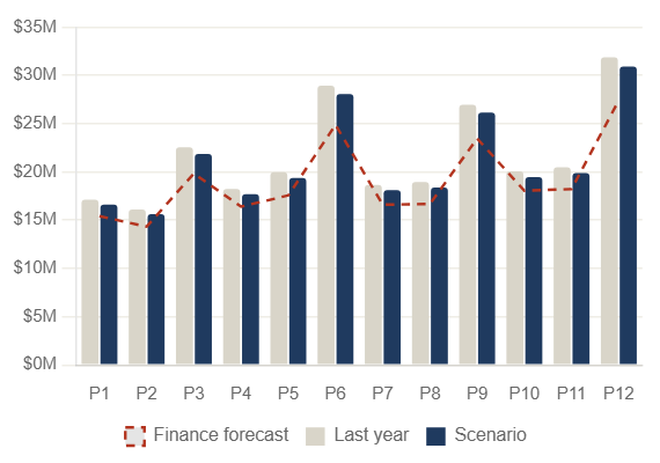
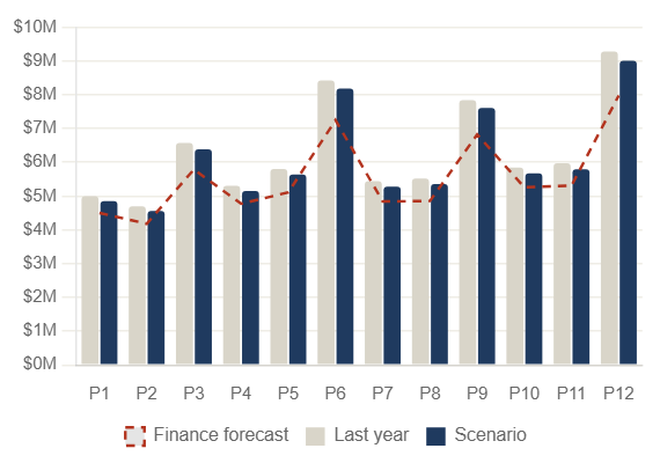
Planning scenarios: move synthetic anchors further from actuals
AOV ~$300, sessions ~9.5M, paid-search spend $42M, conversion ~2.6%,
sales ~$74M; CPCs and click-to-session rates rebalanced so the
per-channel curves stay plausible. Homepage thumbnail regenerated.

diff --git a/planning-scenarios.html b/planning-scenarios.html
@@ -141,7 +141,7 @@ table.m td.n{text-align:right;font-variant-numeric:tabular-nums;white-space:nowr
     <div class="grp">Paid search spend, $M</div>
     <div id="chLevers"></div>
     <div class="grp">Upper funnel, $M</div>
-    <div class="lever"><label>Display &amp; video <small>LY $25.0M</small></label><input type="range" id="r_uf" min="0" max="50" step="0.5" value="25"><input type="number" id="n_uf" step="0.5" value="25"></div>
+    <div class="lever"><label>Display &amp; video <small>LY $10.0M</small></label><input type="range" id="r_uf" min="0" max="25" step="0.5" value="10"><input type="number" id="n_uf" step="0.5" value="10"></div>
     <div class="grp">Baselines, % vs last year</div>
     <div class="lever"><label>Organic sessions <small>assumed</small></label><input type="range" id="r_org" min="-50" max="20" step="1" value="-10"><input type="number" id="n_org" step="1" value="-10"></div>
     <div class="lever"><label>Earned &amp; direct sessions <small>assumed</small></label><input type="range" id="r_earn" min="-40" max="20" step="1" value="-5"><input type="number" id="n_earn" step="1" value="-5"></div>
@@ -257,17 +257,17 @@ table.m td.n{text-align:right;font-variant-numeric:tabular-nums;white-space:nowr
 const PER=['P1','P2','P3','P4','P5','P6','P7','P8','P9','P10','P11','P12'];
 const W=[.072,.070,.088,.075,.080,.100,.078,.078,.096,.080,.080,.103];          // period share of volume (4-4-5, holiday-heavy P6/P9/P12)
 const AOVIDX=[.97,.96,1.00,.98,.99,1.04,.97,.98,1.03,1.00,1.01,1.07];              // LY per-period AOV seasonal index
-const CONVLY=[1.78,1.74,1.86,1.80,1.83,2.02,1.79,1.80,1.98,1.82,1.84,2.10];        // LY conversion % by period
-const AOVLY=809;
+const CONVLY=[2.50,2.44,2.61,2.52,2.56,2.83,2.51,2.52,2.77,2.55,2.58,2.94];        // LY conversion % by period
+const AOVLY=300;
 const CH=[
- {k:'brand',n:'Brand search',   spendLY:12.0, cpcLY:1.90, eps:0.85, c2s:0.300, cap:1.05, col:'#1F3A5F'},
- {k:'nb',   n:'Non-brand search',spendLY:30.0, cpcLY:4.10, eps:0.35, c2s:0.270, col:'#2C5688'},
- {k:'shop', n:'Shopping',        spendLY:38.0, cpcLY:2.60, eps:0.25, c2s:0.180, col:'#5f7fa3'},
- {k:'local',n:'Local inventory', spendLY:20.0, cpcLY:1.60, eps:0.30, c2s:0.130, col:'#8ea3bf'},
+ {k:'brand',n:'Brand search',   spendLY:5.0,  cpcLY:1.40, eps:0.85, c2s:0.300, cap:1.05, col:'#1F3A5F'},
+ {k:'nb',   n:'Non-brand search',spendLY:12.0, cpcLY:2.80, eps:0.35, c2s:0.270, col:'#2C5688'},
+ {k:'shop', n:'Shopping',        spendLY:16.0, cpcLY:1.90, eps:0.25, c2s:0.180, col:'#5f7fa3'},
+ {k:'local',n:'Local inventory', spendLY:9.0,  cpcLY:1.30, eps:0.30, c2s:0.130, col:'#8ea3bf'},
 ];
-const UF_LY=25.0;                       // upper-funnel spend $M
-const UF_HALO={org:2800,earn:2200};      // sessions per $1M change in upper-funnel spend (low confidence)
-const ORG_LY=4.6e6, EARN_LY=4.3e6;       // LY sessions
+const UF_LY=10.0;                       // upper-funnel spend $M
+const UF_HALO={org:1500,earn:1200};      // sessions per $1M change in upper-funnel spend (low confidence)
+const ORG_LY=2.6e6, EARN_LY=2.3e6;       // LY sessions
 const E_SPEND=-0.17, E_AOV=-0.48;
 const SPILL={ brand:{org:-0.35,earn:+0.25}, nb:{org:+0.06,earn:+0.04}, shop:{org:-0.06,earn:0}, local:{org:0,earn:+0.05} };
 const FC=[0.90,0.89,0.88,0.90,0.88,0.86,0.89,0.88,0.87,0.90,0.89,0.86];            // finance forecast as a ratio of LY sales by period (reference)
@@ -284,10 +284,10 @@ const sp=(v,f)=>'<span class="'+cls(v)+'">'+f(v)+'</span>';
 const S={spend:{},uf:UF_LY,org:-10,earn:-5,cpc:0,cvr:0,aov:2,spill:true,ceil:true,curve:'brand'};
 CH.forEach(c=>S.spend[c.k]=c.spendLY);
 const PRESETS={
-  base:{mult:1.00,uf:25,org:-10,earn:-5,cpc:0,cvr:0,aov:2},
-  up:  {mult:1.10,uf:25,org:-10,earn:-5,cpc:0,cvr:0,aov:2},
-  low: {mult:1.00,uf:20,org:-20,earn:-10,cpc:6,cvr:-4,aov:0},
-  high:{mult:1.05,uf:30,org:0,earn:0,cpc:0,cvr:-1,aov:4},
+  base:{mult:1.00,uf:10,org:-10,earn:-5,cpc:0,cvr:0,aov:2},
+  up:  {mult:1.10,uf:10,org:-10,earn:-5,cpc:0,cvr:0,aov:2},
+  low: {mult:1.00,uf:8,org:-20,earn:-10,cpc:6,cvr:-4,aov:0},
+  high:{mult:1.05,uf:12,org:0,earn:0,cpc:0,cvr:-1,aov:4},
 };
 
 // ---------------- model ----------------
@@ -427,7 +427,7 @@ function render(){
   B.steps.forEach(s=>{const a=run_,b=run_+s.d;steps.push({label:s.name,v:[Math.min(a,b),Math.max(a,b)],d:s.d,c:s.d>=0?'#1f7a45':'#b3341f'});run_=b;});
   steps.push({label:'Scenario',v:[0,B.end],total:B.end,c:'#1F3A5F'});
   const SHORT={'Last year':['Last','year'],'Paid volume & CPC':['Paid','volume'],'Halo & cannibalization':['Halo /','cannib.'],'Organic baseline':['Organic','baseline'],'Earned & direct baseline':['Earned','baseline'],'Conversion adjust':['Conv.','adjust'],'AOV (incl. conversion response)':['AOV'],'Scenario':['Scenario']};cBridge.$steps=steps;cBridge.data.labels=steps.map(s=>SHORT[s.label]||[s.label]);cBridge.data.datasets[0].data=steps.map(s=>s.v);cBridge.data.datasets[0].backgroundColor=steps.map(s=>s.c);
-  const lo=Math.min(...steps.map(s=>s.total!=null?s.total:s.v[0]));cBridge.options.scales.y.min=Math.floor(lo*0.9/1e7)*1e7;cBridge.update();
+  const lo=Math.min(...steps.map(s=>s.total!=null?s.total:s.v[0]));cBridge.options.scales.y.min=Math.floor(lo*0.9/1e6)*1e6;cBridge.update();
 }
 $('csv').onclick=()=>{const rows=[...$('tPer').querySelectorAll('tr')].map(tr=>[...tr.children].map(td=>'"'+td.textContent.replace(/"/g,'""').replace(/−/g,'-')+'"').join(','));
   const blob=new Blob([''+rows.join('\r\n')],{type:'text/csv'});const a=document.createElement('a');a.href=URL.createObjectURL(blob);a.download='planning_scenario.csv';a.click();};
